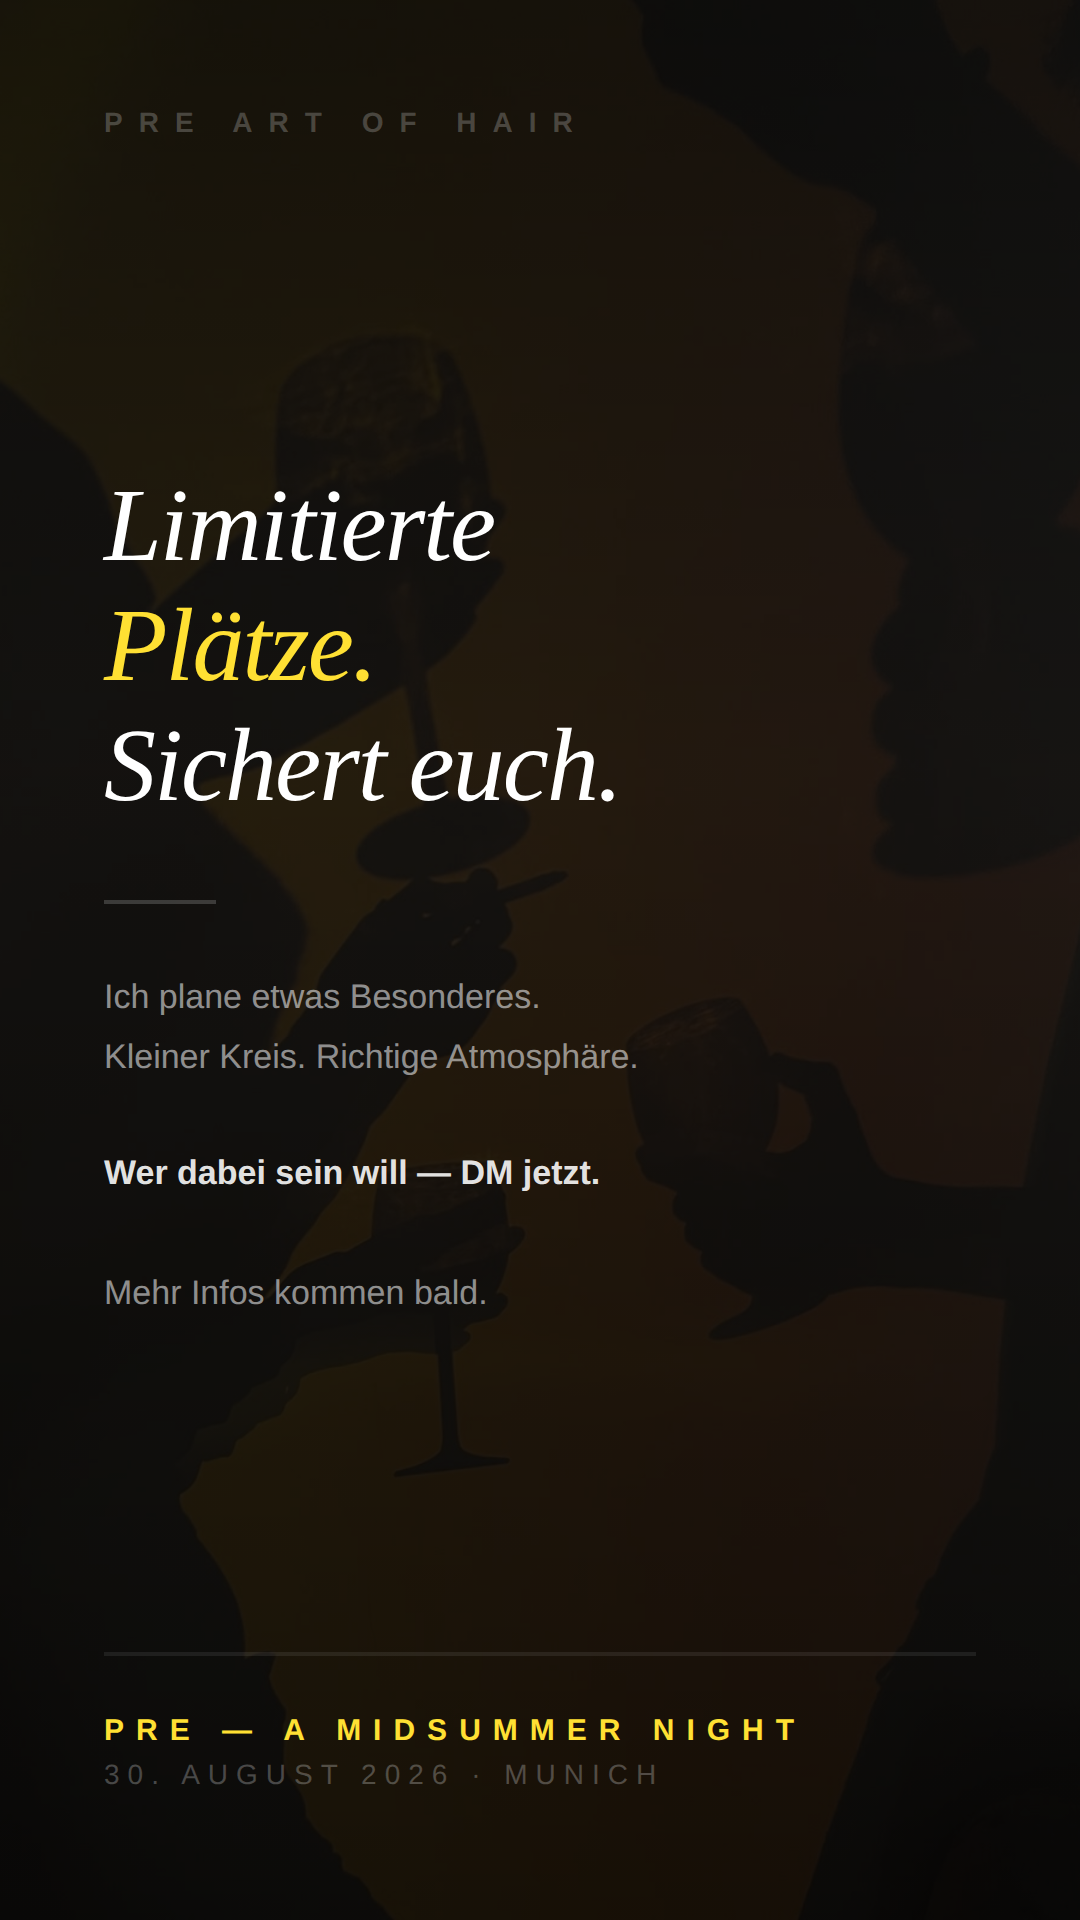
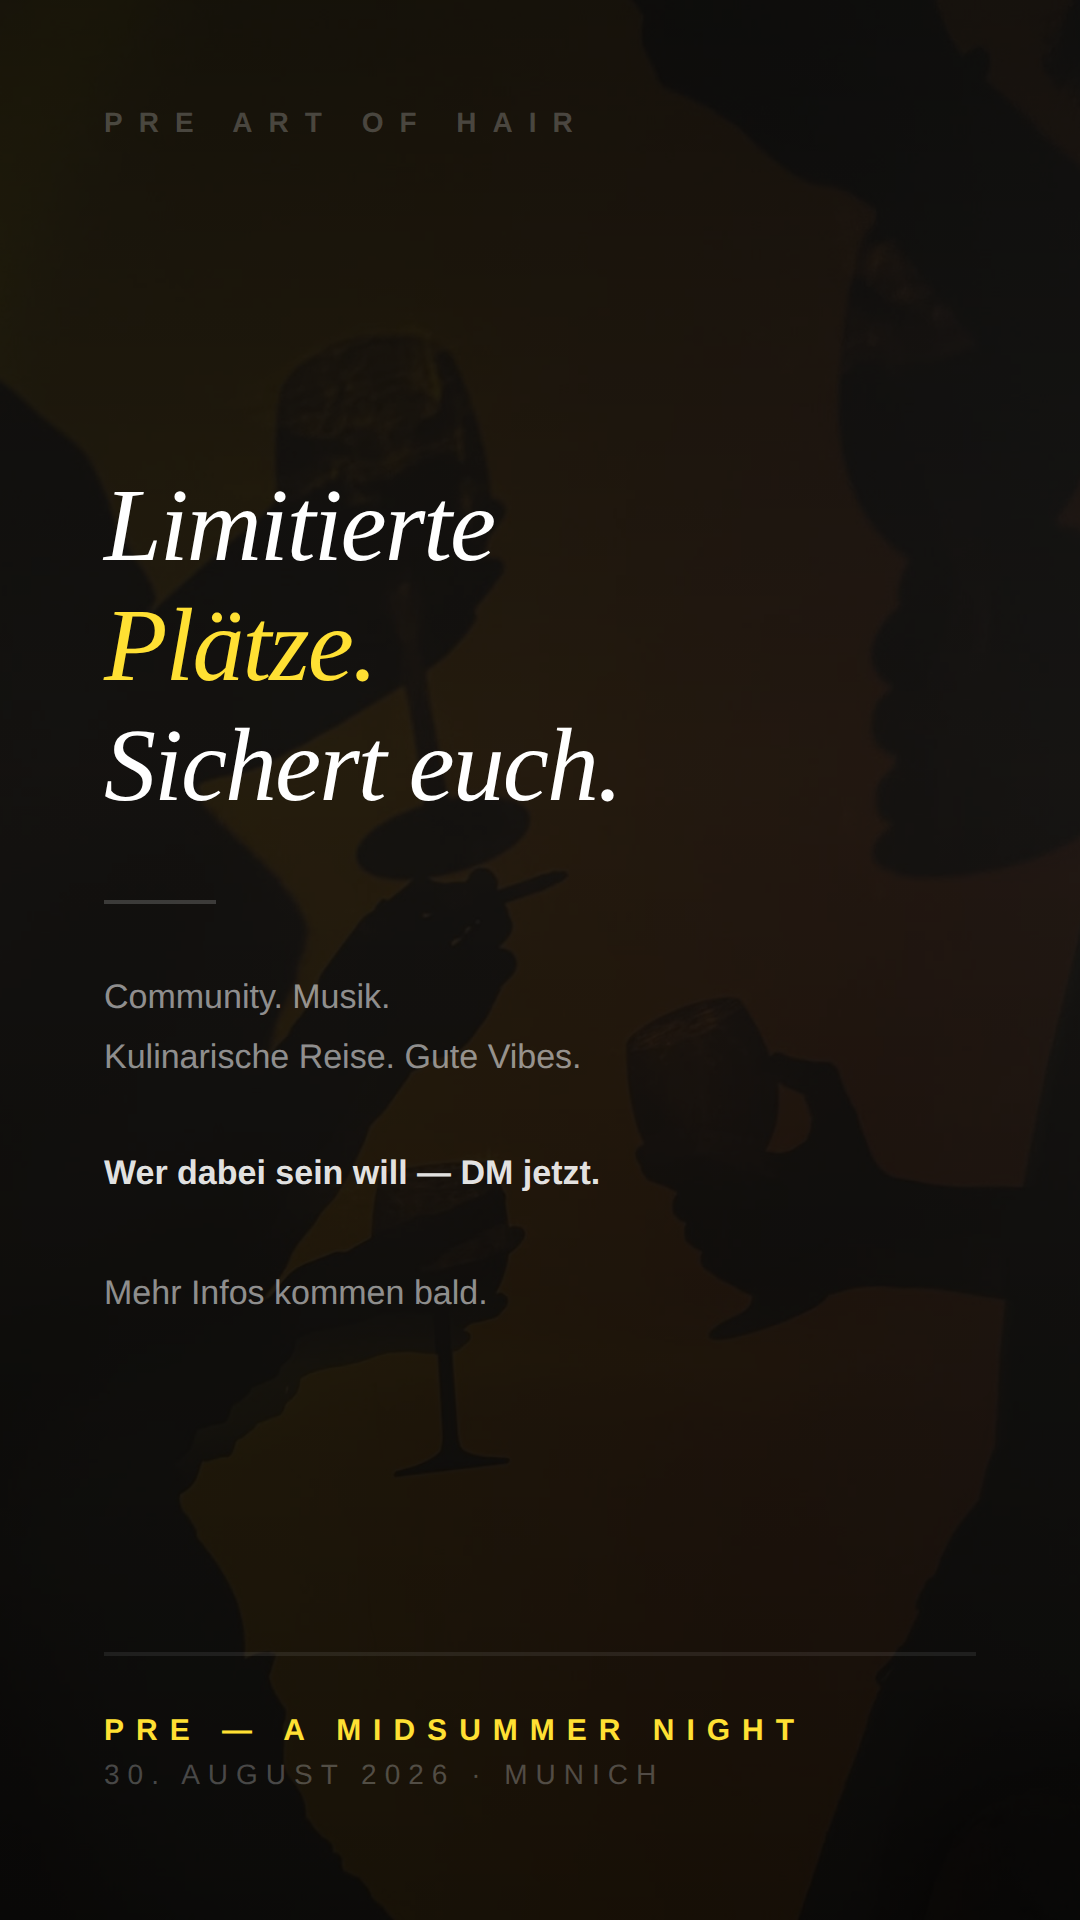
Update story text — community, musik, kulinarische Reise, gute Vibes
Claude-Session: https://claude.ai/code/session_01BaC8m9wAmbtKccXQSCmnYc

Changed region(s): [[0.0917, 0.5, 0.5806, 0.5625]]

diff --git a/story-aug14-text.html b/story-aug14-text.html
@@ -125,8 +125,8 @@
       </div>
       <div class="rule"></div>
       <div class="body-text">
-        Ich plane etwas Besonderes.<br>
-        Kleiner Kreis. Richtige Atmosphäre.<br><br>
+        Community. Musik.<br>
+        Kulinarische Reise. Gute Vibes.<br><br>
         <b>Wer dabei sein will — DM jetzt.</b><br><br>
         Mehr Infos kommen bald.
       </div>
